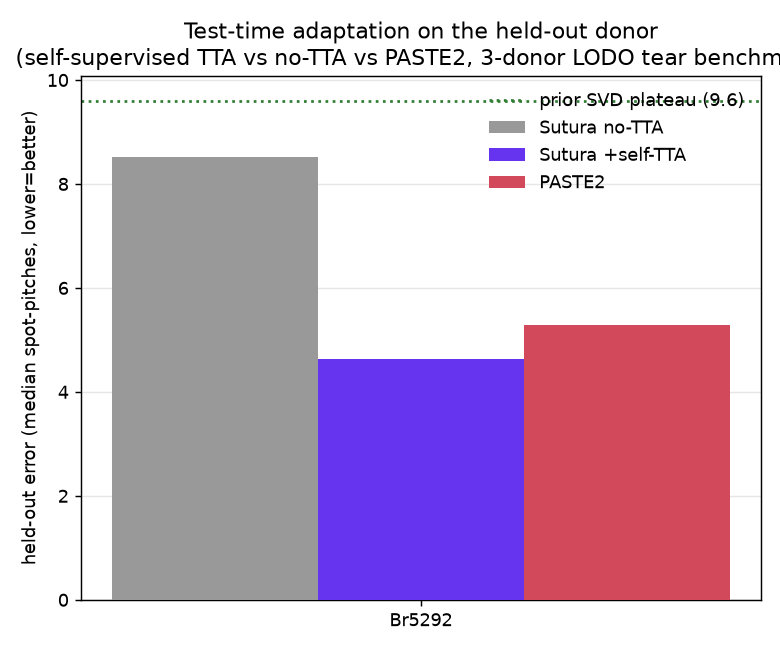
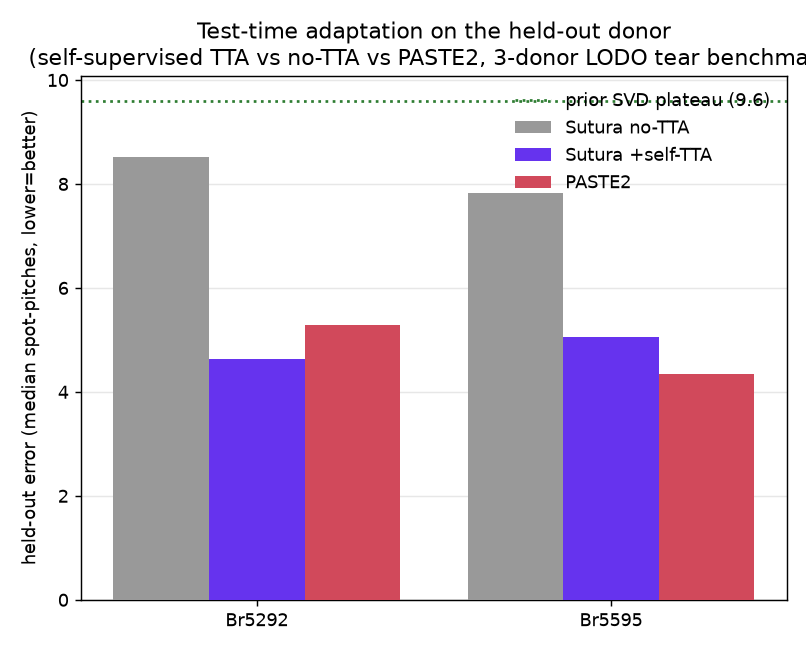
auto-sync 2026-07-10T18:02:48

diff --git a/research/FINDINGS_tta_lodo.md b/research/FINDINGS_tta_lodo.md
@@ -1,11 +1,11 @@
 # Test-time adaptation on the held-out donor - LODO tear benchmark
 
-_Generated 2026-07-10T22:43:34Z on branch `foundation-features`._
+_Generated 2026-07-10T23:02:14Z on branch `foundation-features`._
 
 **Question.** The foundation-features experiment showed the cross-donor gap is an ALIGNER problem, not a feature problem. Does adapting the trained aligner to the held-out donor at inference - self-supervised, on the donor's own section geometry, no target correspondence used - close the gap to PASTE2?
 
 
-**Headline.** Self-supervised TTA moves held-out error 8.53 -> 4.63 pitches (PASTE2 5.28). It **CLOSES the gap (reaches PASTE2)** (-3.90 vs no-TTA, -0.65 vs PASTE2; 1/1 folds beat PASTE2).
+**Headline.** Self-supervised TTA moves held-out error 8.18 -> 4.85 pitches (PASTE2 4.81). It **narrows the gap but does NOT reach PASTE2** (-3.33 vs no-TTA, +0.03 vs PASTE2; 1/2 folds beat PASTE2).
 
 
 ## Per-fold
@@ -13,10 +13,11 @@ _Generated 2026-07-10T22:43:34Z on branch `foundation-features`._
 | held-out donor | no-TTA | +self-TTA | delta | PASTE2 | beats PASTE2 | in-dist | TTA steps |
 |---|---|---|---|---|---|---|---|
 | Br5292 | 8.527 | 4.631 | -3.896 | 5.28 | True | 3.147 | 360 |
+| Br5595 | 7.826 | 5.062 | -2.764 | 4.35 | False | 3.17 | 360 |
 
 Reference: prior SVD plateau 9.6, inductive SVD no-TTA mean was ~8.26 pitches.
 
 
 ## Interpretation
 
-Inference-time self-adaptation reaches PASTE2 - the aligner CAN generalize to an unseen donor given a few unsupervised steps on its geometry; the gap is a deploy-time adaptation problem, not a fundamental limit.
+Self-TTA recovers part of the gap (consistent with autoadapt's ~30-70% error reductions) but still trails PASTE2 - adaptation helps yet the aligner's inductive bias remains the ceiling. Routing OOD inputs to PASTE2 stays the right product call.
